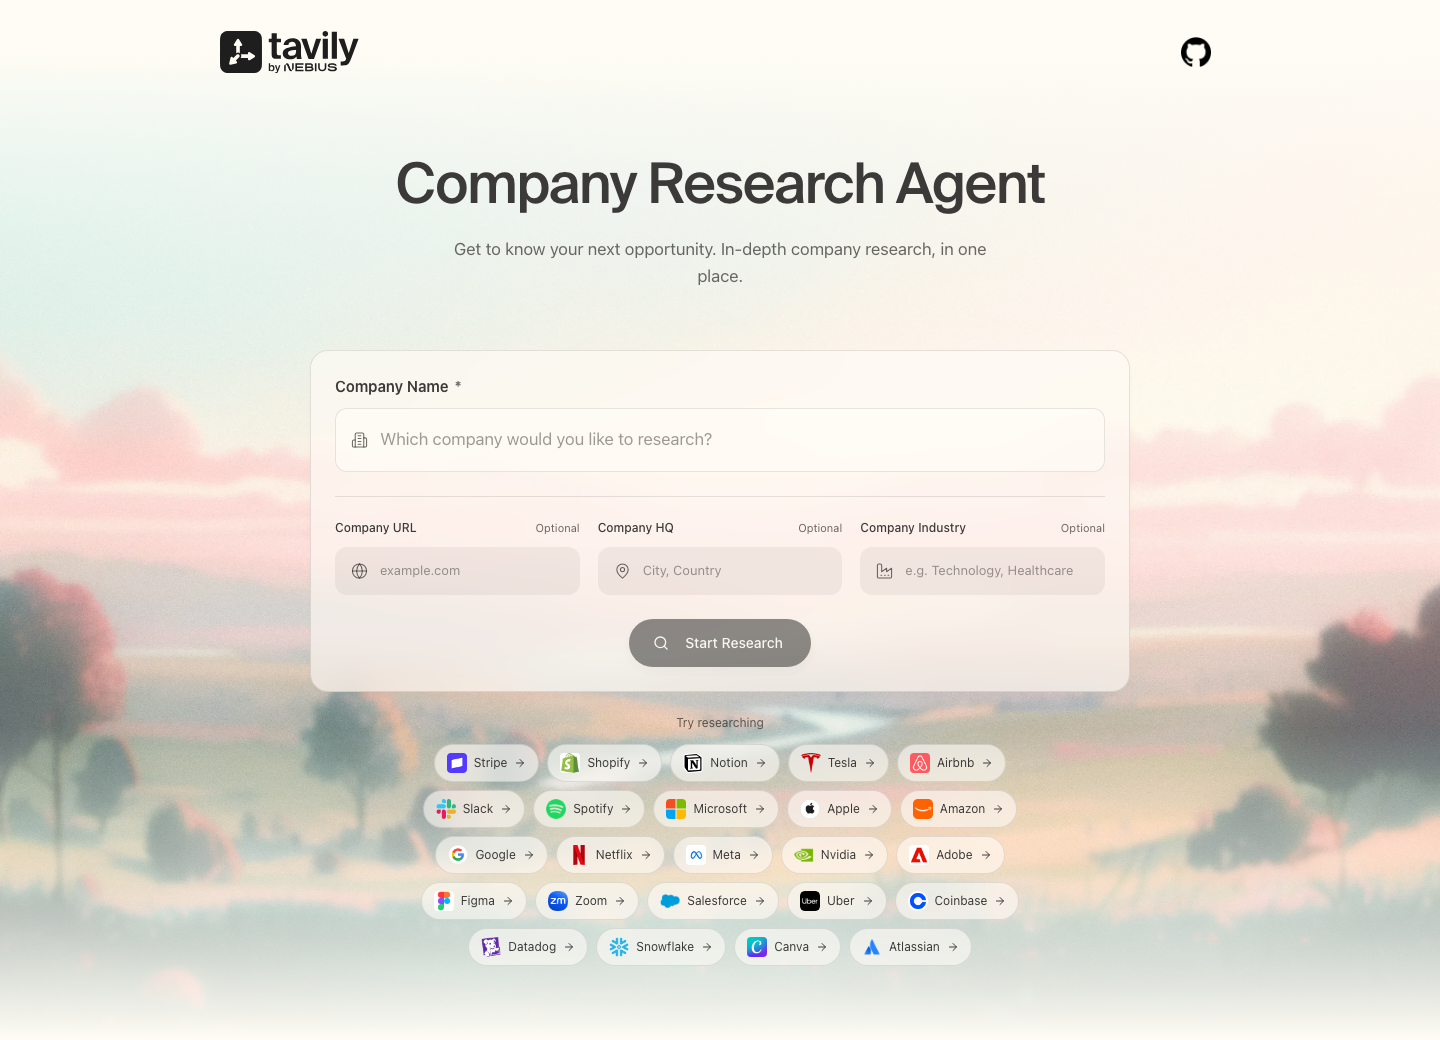
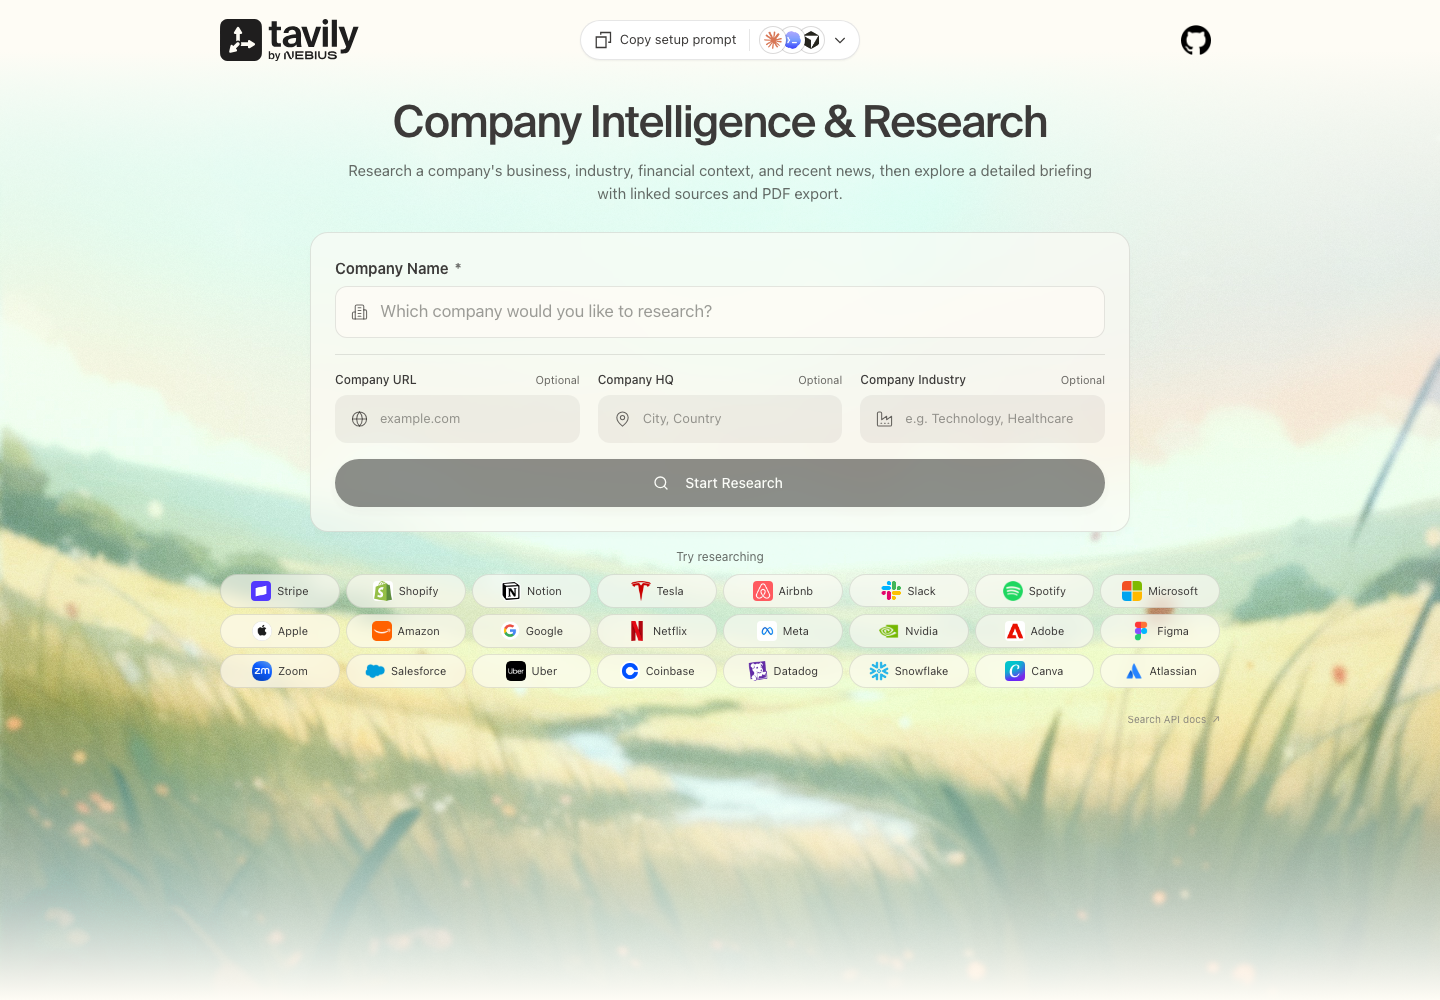
chore: standardize and cleanup

diff --git a/fsi-kit/ui/src/components/layout/FsiShell.tsx b/fsi-kit/ui/src/components/layout/FsiShell.tsx
@@ -1,13 +1,13 @@
 import { useEffect, useState } from "react";
-import { Landmark, Menu, ShieldCheck, X } from "lucide-react";
+import { Landmark, ShieldCheck } from "lucide-react";
 import { NavLink, Outlet, useLocation } from "react-router-dom";
 import { getApiUrl } from "../../sse";
 import ModelCard from "../ModelCard";
 import SetupPrompt from "../../SetupPrompt";
 
 const modules = [
-  { to: "/", label: "Kit home", end: true },
-  { to: "/compliance", label: "Compliance" },
+  { to: "/", label: "Home", end: true },
+  { to: "/compliance", label: "Compliance Intelligence" },
   { to: "/investment-research", label: "Investment Research" },
   { to: "/merchant-risk", label: "Merchant Risk" },
 ];
@@ -19,7 +19,6 @@ export default function FsiShell() {
     research_provider?: string;
     research_model?: string;
   } | null>(null);
-  const [open, setOpen] = useState(false);
   useEffect(() => {
     fetch(`${getApiUrl()}/api/config`)
       .then((r) => r.json())
@@ -66,7 +65,10 @@ export default function FsiShell() {
             />
           </a>
           <SetupPrompt />
-          <div className="nav-actions">
+          <div className="nav-actions gap-2">
+            {activeModel && (
+              <ModelCard provider={activeModel.provider} model={activeModel.model} />
+            )}
             <a
               href="https://github.com/tavily-ai/tavily-industry-demos/tree/main/fsi-kit"
               target="_blank"
@@ -79,61 +81,22 @@ export default function FsiShell() {
             </a>
           </div>
         </nav>
-        <div className="max-w-6xl mx-auto px-6 pb-2 flex items-center gap-5">
-          <NavLink to="/" className="flex items-center gap-3 shrink-0">
-            <span>
-              <span className="font-display font-semibold text-ink-100 block leading-tight">
-                Financial Services & Insurance
-              </span>
-            </span>
-          </NavLink>
-          <nav
-            className="hidden md:flex glass rounded-xl p-1 gap-1 ml-auto"
-            aria-label="Financial Services & Insurance modules"
-          >
+        <div className="max-w-6xl mx-auto px-6 pb-2">
+          <nav className="flex w-full glass rounded-xl p-1 gap-1" aria-label="Kit modules">
             {modules.map((item) => (
               <NavLink
                 key={item.to}
                 end={item.end}
                 to={item.to}
                 className={({ isActive }) =>
-                  `rounded-lg px-3 py-2 text-xs font-medium transition-all ${isActive ? "glass-button-active text-ink-100" : "text-ink-400 hover:text-ink-100"}`
+                  `flex-1 text-center rounded-lg px-2 py-2.5 text-xs font-medium leading-tight transition-all ${isActive ? "glass-button-active text-ink-100" : "text-ink-400 hover:text-ink-100"}`
                 }
               >
                 {item.label}
               </NavLink>
             ))}
           </nav>
-          {activeModel && (
-            <div className="hidden xl:block">
-              <ModelCard provider={activeModel.provider} model={activeModel.model} />
-            </div>
-          )}
-          <button
-            className="md:hidden ml-auto glass-button p-2 rounded-lg"
-            onClick={() => setOpen(!open)}
-            aria-label="Toggle navigation"
-          >
-            {open ? <X className="w-5 h-5" /> : <Menu className="w-5 h-5" />}
-          </button>
         </div>
-        {open && (
-          <nav className="md:hidden px-6 pb-3 flex flex-col gap-1">
-            {modules.map((item) => (
-              <NavLink
-                key={item.to}
-                end={item.end}
-                onClick={() => setOpen(false)}
-                to={item.to}
-                className={({ isActive }) =>
-                  `rounded-lg px-3 py-2 text-sm ${isActive ? "glass-button-active" : "text-ink-400"}`
-                }
-              >
-                {item.label}
-              </NavLink>
-            ))}
-          </nav>
-        )}
       </header>
       <div className="relative z-10 max-w-6xl mx-auto px-6 pt-2">
         <Outlet />

diff --git a/fsi-kit/ui/src/SetupPrompt.jsx b/fsi-kit/ui/src/SetupPrompt.jsx
@@ -19,16 +19,16 @@ const agents = [
 export default function SetupPrompt() {
   const [open, setOpen] = useState(false);
   const [status, setStatus] = useState("");
-  const root = useRef<HTMLDivElement>(null);
-  const trigger = useRef<HTMLButtonElement>(null);
-  const timer = useRef<ReturnType<typeof setTimeout> | undefined>(undefined);
+  const root = useRef(null);
+  const trigger = useRef(null);
+  const timer = useRef();
   const id = useId();
   useEffect(() => () => clearTimeout(timer.current), []);
   useEffect(() => {
     if (!open) return;
-    root.current?.querySelector<HTMLElement>('[role="menuitem"]')?.focus();
-    const outside = (event: MouseEvent) => {
-      if (!root.current?.contains(event.target as Node)) setOpen(false);
+    root.current?.querySelector('[role="menuitem"]')?.focus();
+    const outside = (event) => {
+      if (!root.current?.contains(event.target)) setOpen(false);
     };
     document.addEventListener("mousedown", outside);
     return () => document.removeEventListener("mousedown", outside);
@@ -57,8 +57,8 @@ export default function SetupPrompt() {
         }
         if (!open || !["ArrowDown", "ArrowUp", "Home", "End"].includes(event.key)) return;
         event.preventDefault();
-        const items = Array.from(root.current!.querySelectorAll<HTMLElement>('[role="menuitem"]'));
-        const index = items.indexOf(document.activeElement as HTMLElement);
+        const items = Array.from(root.current.querySelectorAll('[role="menuitem"]'));
+        const index = items.indexOf(document.activeElement);
         const next =
           event.key === "Home"
             ? 0

diff --git a/travel-hospitality-intelligence-agent/ui/src/SetupPrompt.jsx b/travel-hospitality-intelligence-agent/ui/src/SetupPrompt.jsx
@@ -19,16 +19,16 @@ const agents = [
 export default function SetupPrompt() {
   const [open, setOpen] = useState(false);
   const [status, setStatus] = useState("");
-  const root = useRef<HTMLDivElement>(null);
-  const trigger = useRef<HTMLButtonElement>(null);
-  const timer = useRef<ReturnType<typeof setTimeout> | undefined>(undefined);
+  const root = useRef(null);
+  const trigger = useRef(null);
+  const timer = useRef();
   const id = useId();
   useEffect(() => () => clearTimeout(timer.current), []);
   useEffect(() => {
     if (!open) return;
-    root.current?.querySelector<HTMLElement>('[role="menuitem"]')?.focus();
-    const outside = (event: MouseEvent) => {
-      if (!root.current?.contains(event.target as Node)) setOpen(false);
+    root.current?.querySelector('[role="menuitem"]')?.focus();
+    const outside = (event) => {
+      if (!root.current?.contains(event.target)) setOpen(false);
     };
     document.addEventListener("mousedown", outside);
     return () => document.removeEventListener("mousedown", outside);
@@ -57,8 +57,8 @@ export default function SetupPrompt() {
         }
         if (!open || !["ArrowDown", "ArrowUp", "Home", "End"].includes(event.key)) return;
         event.preventDefault();
-        const items = Array.from(root.current!.querySelectorAll<HTMLElement>('[role="menuitem"]'));
-        const index = items.indexOf(document.activeElement as HTMLElement);
+        const items = Array.from(root.current.querySelectorAll('[role="menuitem"]'));
+        const index = items.indexOf(document.activeElement);
         const next =
           event.key === "Home"
             ? 0

diff --git a/tavily-chat/src/style.css b/tavily-chat/src/style.css
@@ -77,16 +77,35 @@ a:hover,
 .text-button:hover {
   color: var(--blue);
 }
-.landscape {
+.landscape-background {
   position: fixed;
   inset: 0;
   z-index: -1;
+  pointer-events: none;
+  background: #fefcf5;
+}
+.landscape-background > img {
+  width: 100%;
+  height: 100%;
+  object-fit: cover;
   opacity: 0.9;
   filter: saturate(1.26) contrast(1.04);
-  background:
-    linear-gradient(#fefcf5 0%, #fefcf540 45%, #fefcf5 100%),
-    url("/tavily-landscape.jpg") center/cover no-repeat;
-  pointer-events: none;
+}
+.landscape-fade-top {
+  position: absolute;
+  top: 0;
+  left: 0;
+  right: 0;
+  height: 50%;
+  background: linear-gradient(to bottom, #fefcf5 0%, #fefcf5 10%, transparent 100%);
+}
+.landscape-fade-bottom {
+  position: absolute;
+  bottom: 0;
+  left: 0;
+  right: 0;
+  height: 30%;
+  background: linear-gradient(to top, #fefcf5 0%, transparent 100%);
 }
 .app-shell {
   position: fixed;

diff --git a/tavily-chat/src/main.jsx b/tavily-chat/src/main.jsx
@@ -549,7 +549,11 @@ function App() {
 
   return (
     <>
-      <div className="landscape" aria-hidden="true" />
+      <div className="landscape-background" aria-hidden="true">
+        <img src="/tavily-landscape.jpg" alt="" />
+        <div className="landscape-fade-top" />
+        <div className="landscape-fade-bottom" />
+      </div>
       <div className="app-shell">
         <header className="topbar setup-header">
           <div className="brand-group">

diff --git a/market-researcher/ui/src/pages/Index.tsx b/market-researcher/ui/src/pages/Index.tsx
@@ -14,7 +14,7 @@ const Index = () => {
   const [generationStatus, setGenerationStatus] = useState<string | null>(null);
   const [generationEvents, setGenerationEvents] = useState<string[]>([]);
 
-  const BASE_URL = import.meta.env.VITE_API_URL || "http://localhost:8080";
+  const BASE_URL = import.meta.env.VITE_API_URL || "http://localhost:8000";
 
   const handleGenerateReport = async (researchModel: ResearchModel) => {
     if (tickers.length === 0) return;

diff --git a/company-research-agent/ui/vite.config.ts b/company-research-agent/ui/vite.config.ts
@@ -9,7 +9,7 @@ export default defineConfig({
     sourcemap: true,
   },
   server: {
-    port: 5174,
+    port: 3000,
     strictPort: true,
     host: "127.0.0.1",
   },

diff --git a/fsi-kit/ui/vite.config.ts b/fsi-kit/ui/vite.config.ts
@@ -8,7 +8,7 @@ export default defineConfig({
     sourcemap: true,
   },
   server: {
-    port: 5173,
+    port: 3000,
     strictPort: true,
     host: "127.0.0.1",
   },

diff --git a/travel-hospitality-intelligence-agent/ui/vite.config.ts b/travel-hospitality-intelligence-agent/ui/vite.config.ts
@@ -9,7 +9,7 @@ export default defineConfig({
     sourcemap: true,
   },
   server: {
-    port: 5174,
+    port: 3000,
     strictPort: true,
     host: "127.0.0.1",
   },

diff --git a/fsi-kit/backend/app.py b/fsi-kit/backend/app.py
@@ -33,7 +33,10 @@ app = FastAPI(
 )
 app.add_middleware(
     CORSMiddleware,
-    allow_origins=["http://localhost:5173", "http://localhost:3000"],
+    allow_origins=[
+        "http://localhost:3000",
+        "http://127.0.0.1:3000",
+    ],
     allow_credentials=True,
     allow_methods=["*"],
     allow_headers=["*"],

diff --git a/market-researcher/application.py b/market-researcher/application.py
@@ -126,4 +126,4 @@ async def stream_stock_digest(data: StockDigestRequest, request: Request):
 
 
 if __name__ == "__main__":
-    uvicorn.run(app, host="0.0.0.0", port=8080)
+    uvicorn.run(app, host="0.0.0.0", port=8000)

diff --git a/README.md b/README.md
@@ -27,15 +27,52 @@
 
 ## Kits
 
-| Kit                 | Industry                       | Use case                                                        |
-| ------------------- | ------------------------------ | --------------------------------------------------------------- |
-| [fsi-kit](fsi-kit/) | Financial Services & Insurance | Compliance, investment research, and merchant-risk intelligence |
-| [sales-meeting-prep](sales-meeting-prep/) | Sales & GTM | Web-sourced meeting briefs and customer context |
-| [company-research-agent](company-research-agent/) | Product & Competitive Intelligence | Company briefings and market research |
-| [market-researcher](market-researcher/) | Finance | Cited stock portfolio and investment research |
-| [vendor-supply-chain-risk](vendor-supply-chain-risk/) | Risk | Vendor events and supply-chain disruptions |
-| [travel-hospitality-intelligence-agent](travel-hospitality-intelligence-agent/) | Travel & Hospitality | Destination trends, demand, and disruptions |
-| [tavily-chat](tavily-chat/) | AI Assistants | Streaming web-grounded chat with citations |
+<table>
+  <tr>
+    <td align="center" valign="top" width="50%">
+      <a href="fsi-kit/"><img src="fsi-kit/static/app-screenshot.png" alt="Financial Services & Insurance Kit"></a><br>
+      <a href="fsi-kit/"><strong>fsi-kit</strong></a><br>
+      Financial Services &amp; Insurance — compliance, investment research, and merchant-risk intelligence
+    </td>
+    <td align="center" valign="top" width="50%">
+      <a href="sales-meeting-prep/"><img src="sales-meeting-prep/docs/images/app-screenshot.png" alt="Sales Meeting Prep"></a><br>
+      <a href="sales-meeting-prep/"><strong>sales-meeting-prep</strong></a><br>
+      Sales &amp; GTM — web-sourced meeting briefs and customer context
+    </td>
+  </tr>
+  <tr>
+    <td align="center" valign="top" width="50%">
+      <a href="company-research-agent/"><img src="company-research-agent/static/app-screenshot.png" alt="Company Research Agent"></a><br>
+      <a href="company-research-agent/"><strong>company-research-agent</strong></a><br>
+      Product &amp; Competitive Intelligence — company briefings and market research
+    </td>
+    <td align="center" valign="top" width="50%">
+      <a href="market-researcher/"><img src="market-researcher/static/app-screenshot.png" alt="Stock Portfolio Researcher"></a><br>
+      <a href="market-researcher/"><strong>market-researcher</strong></a><br>
+      Finance — cited stock portfolio and investment research
+    </td>
+  </tr>
+  <tr>
+    <td align="center" valign="top" width="50%">
+      <a href="vendor-supply-chain-risk/"><img src="vendor-supply-chain-risk/docs/images/app-screenshot.png" alt="Vendor & Supply Chain Risk"></a><br>
+      <a href="vendor-supply-chain-risk/"><strong>vendor-supply-chain-risk</strong></a><br>
+      Risk — vendor events and supply-chain disruptions
+    </td>
+    <td align="center" valign="top" width="50%">
+      <a href="travel-hospitality-intelligence-agent/"><img src="travel-hospitality-intelligence-agent/static/app-screenshot.png" alt="Travel Intelligence Agent"></a><br>
+      <a href="travel-hospitality-intelligence-agent/"><strong>travel-hospitality-intelligence-agent</strong></a><br>
+      Travel &amp; Hospitality — destination trends, demand, and disruptions
+    </td>
+  </tr>
+  <tr>
+    <td align="center" valign="top" width="50%">
+      <a href="tavily-chat/"><img src="tavily-chat/docs/images/app-screenshot.png" alt="Tavily Chat"></a><br>
+      <a href="tavily-chat/"><strong>tavily-chat</strong></a><br>
+      AI Assistants — streaming web-grounded chat with citations
+    </td>
+    <td></td>
+  </tr>
+</table>
 
 ## Use a kit
 
@@ -57,12 +94,6 @@ git sparse-checkout set fsi-kit
 Then follow the kit's own README — for example, [fsi-kit/README.md](fsi-kit/README.md).
 
 For any other demo, replace `fsi-kit` above with its folder name, then `cd` into that folder before following its README. Install dependencies and build from the individual demo directory. Docker build contexts and deployment root directories must also point to that demo's folder. Demos may use the same default ports; run them separately or configure different ports.
-
-## Add a kit
-
-1. Copy an existing kit folder and rename it.
-2. Replace its data, prompts, and branding — each kit's README has a "Make it yours" section pointing at the right files.
-3. Add a row to the table above, with the demo video link when it exists.
 
 ## License
 
